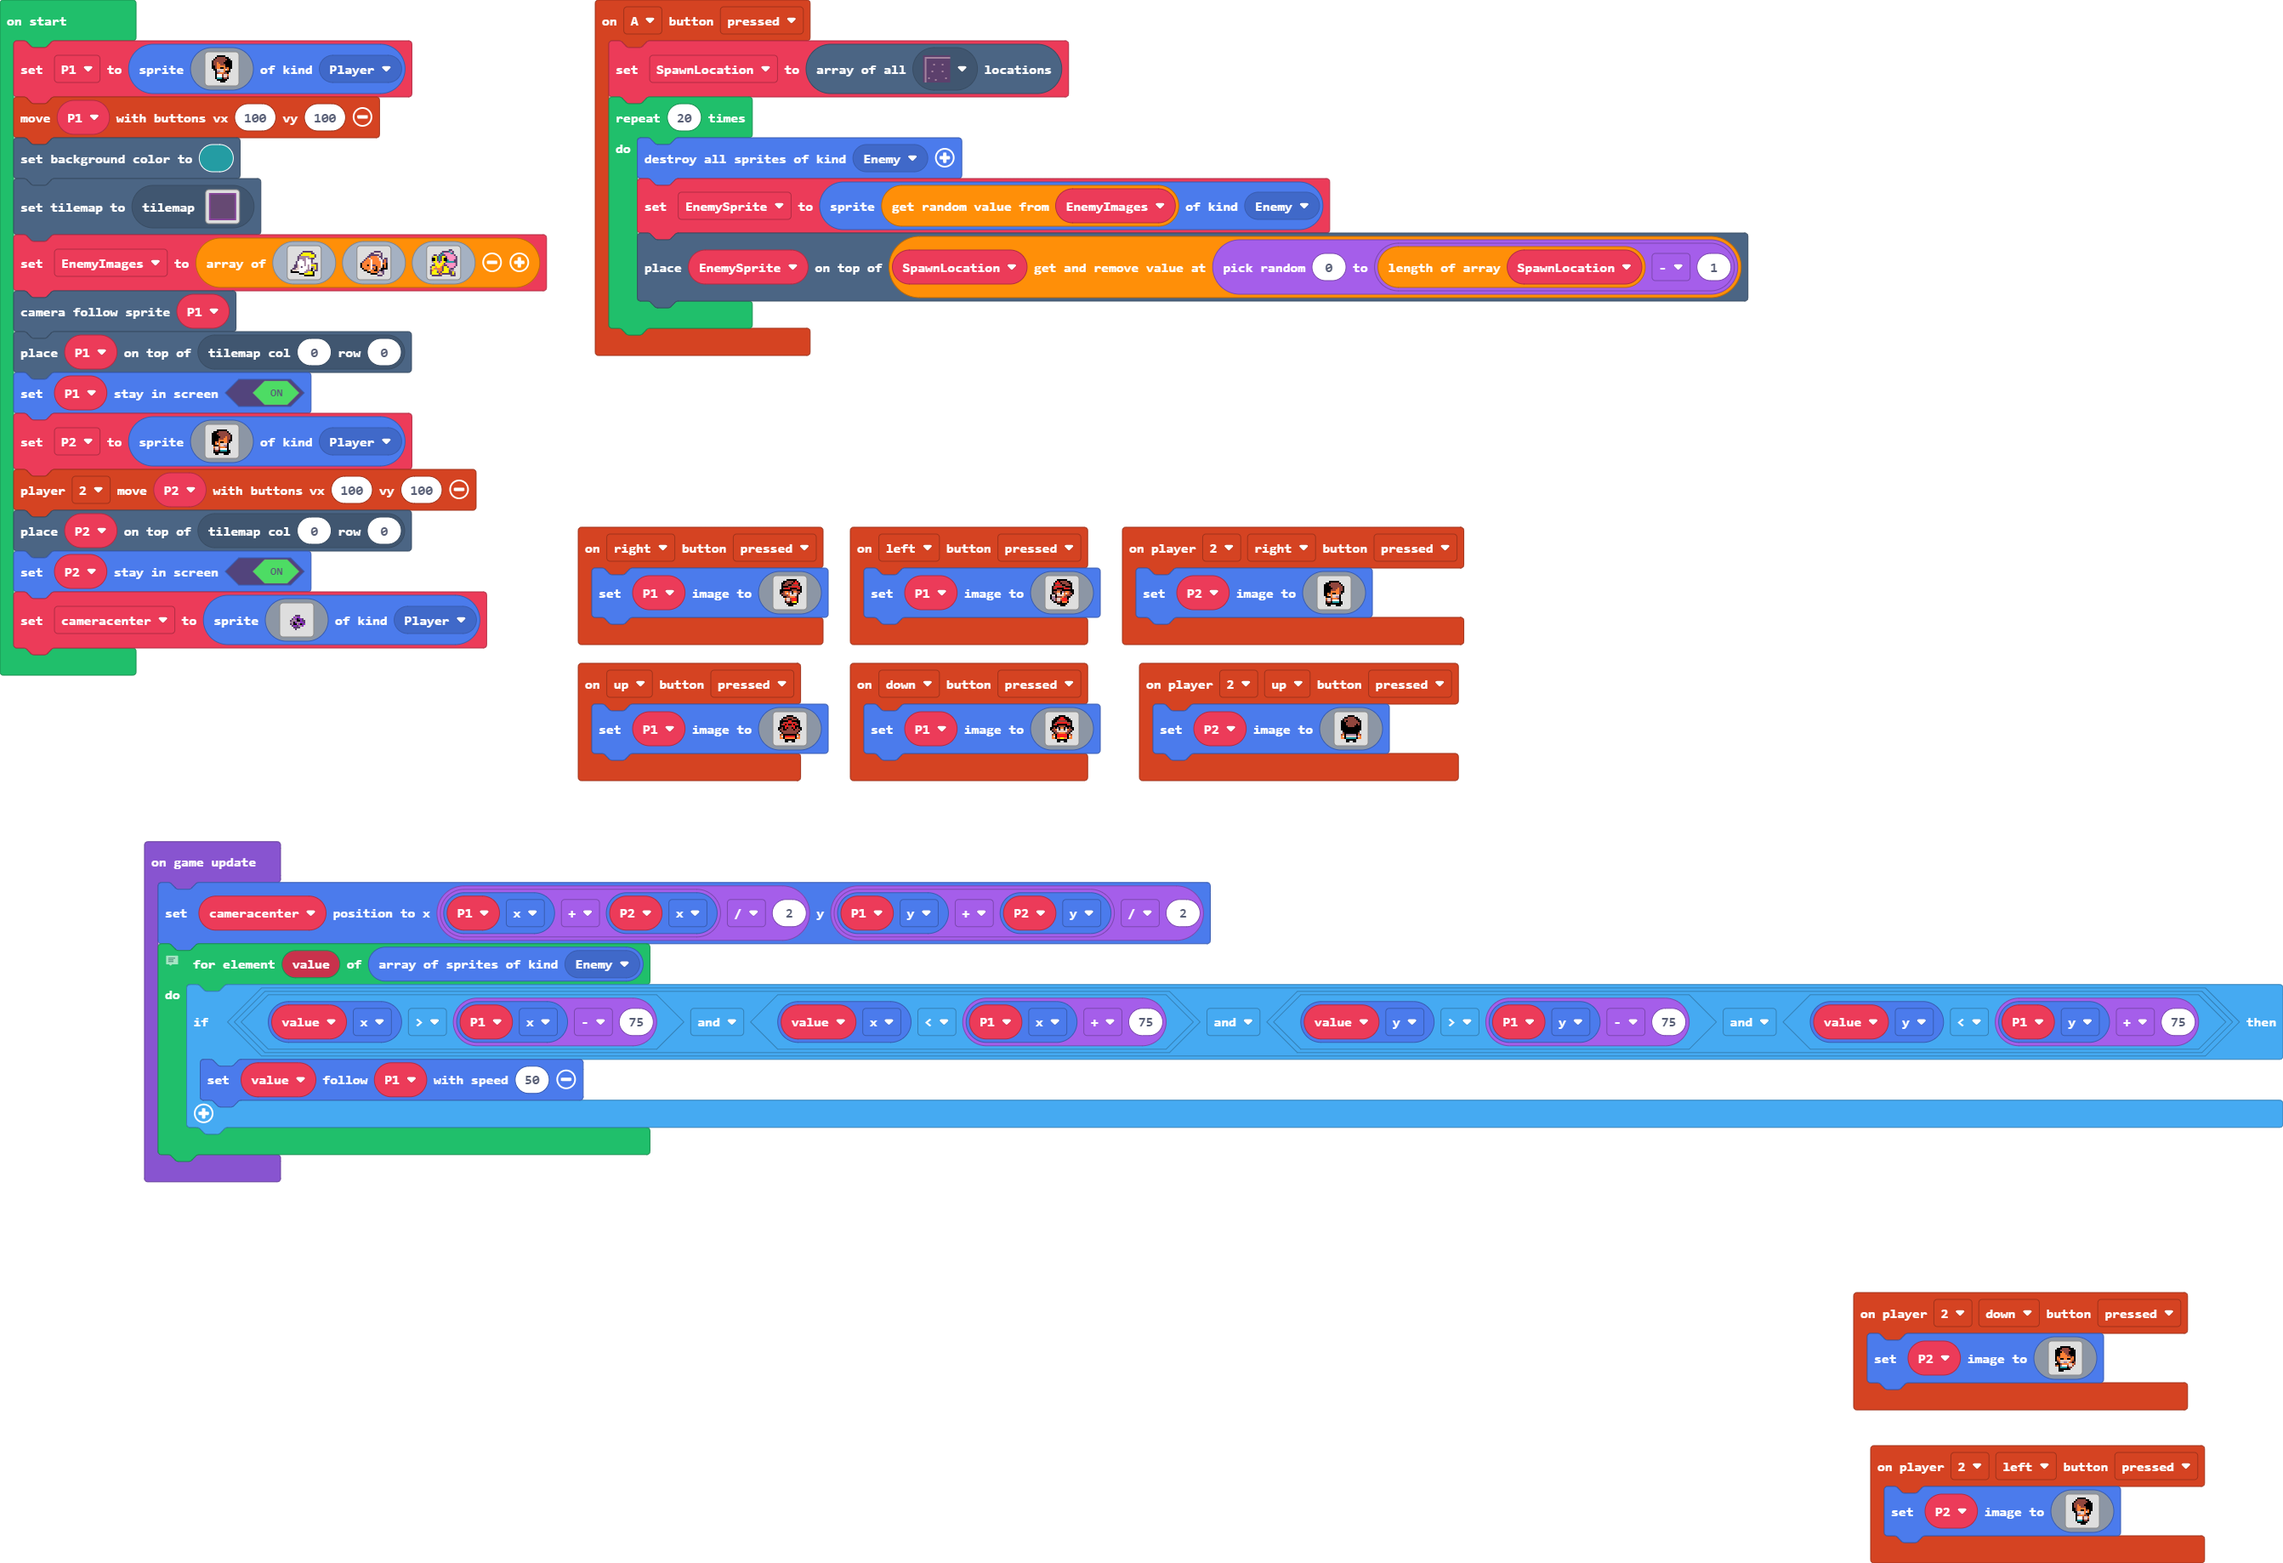
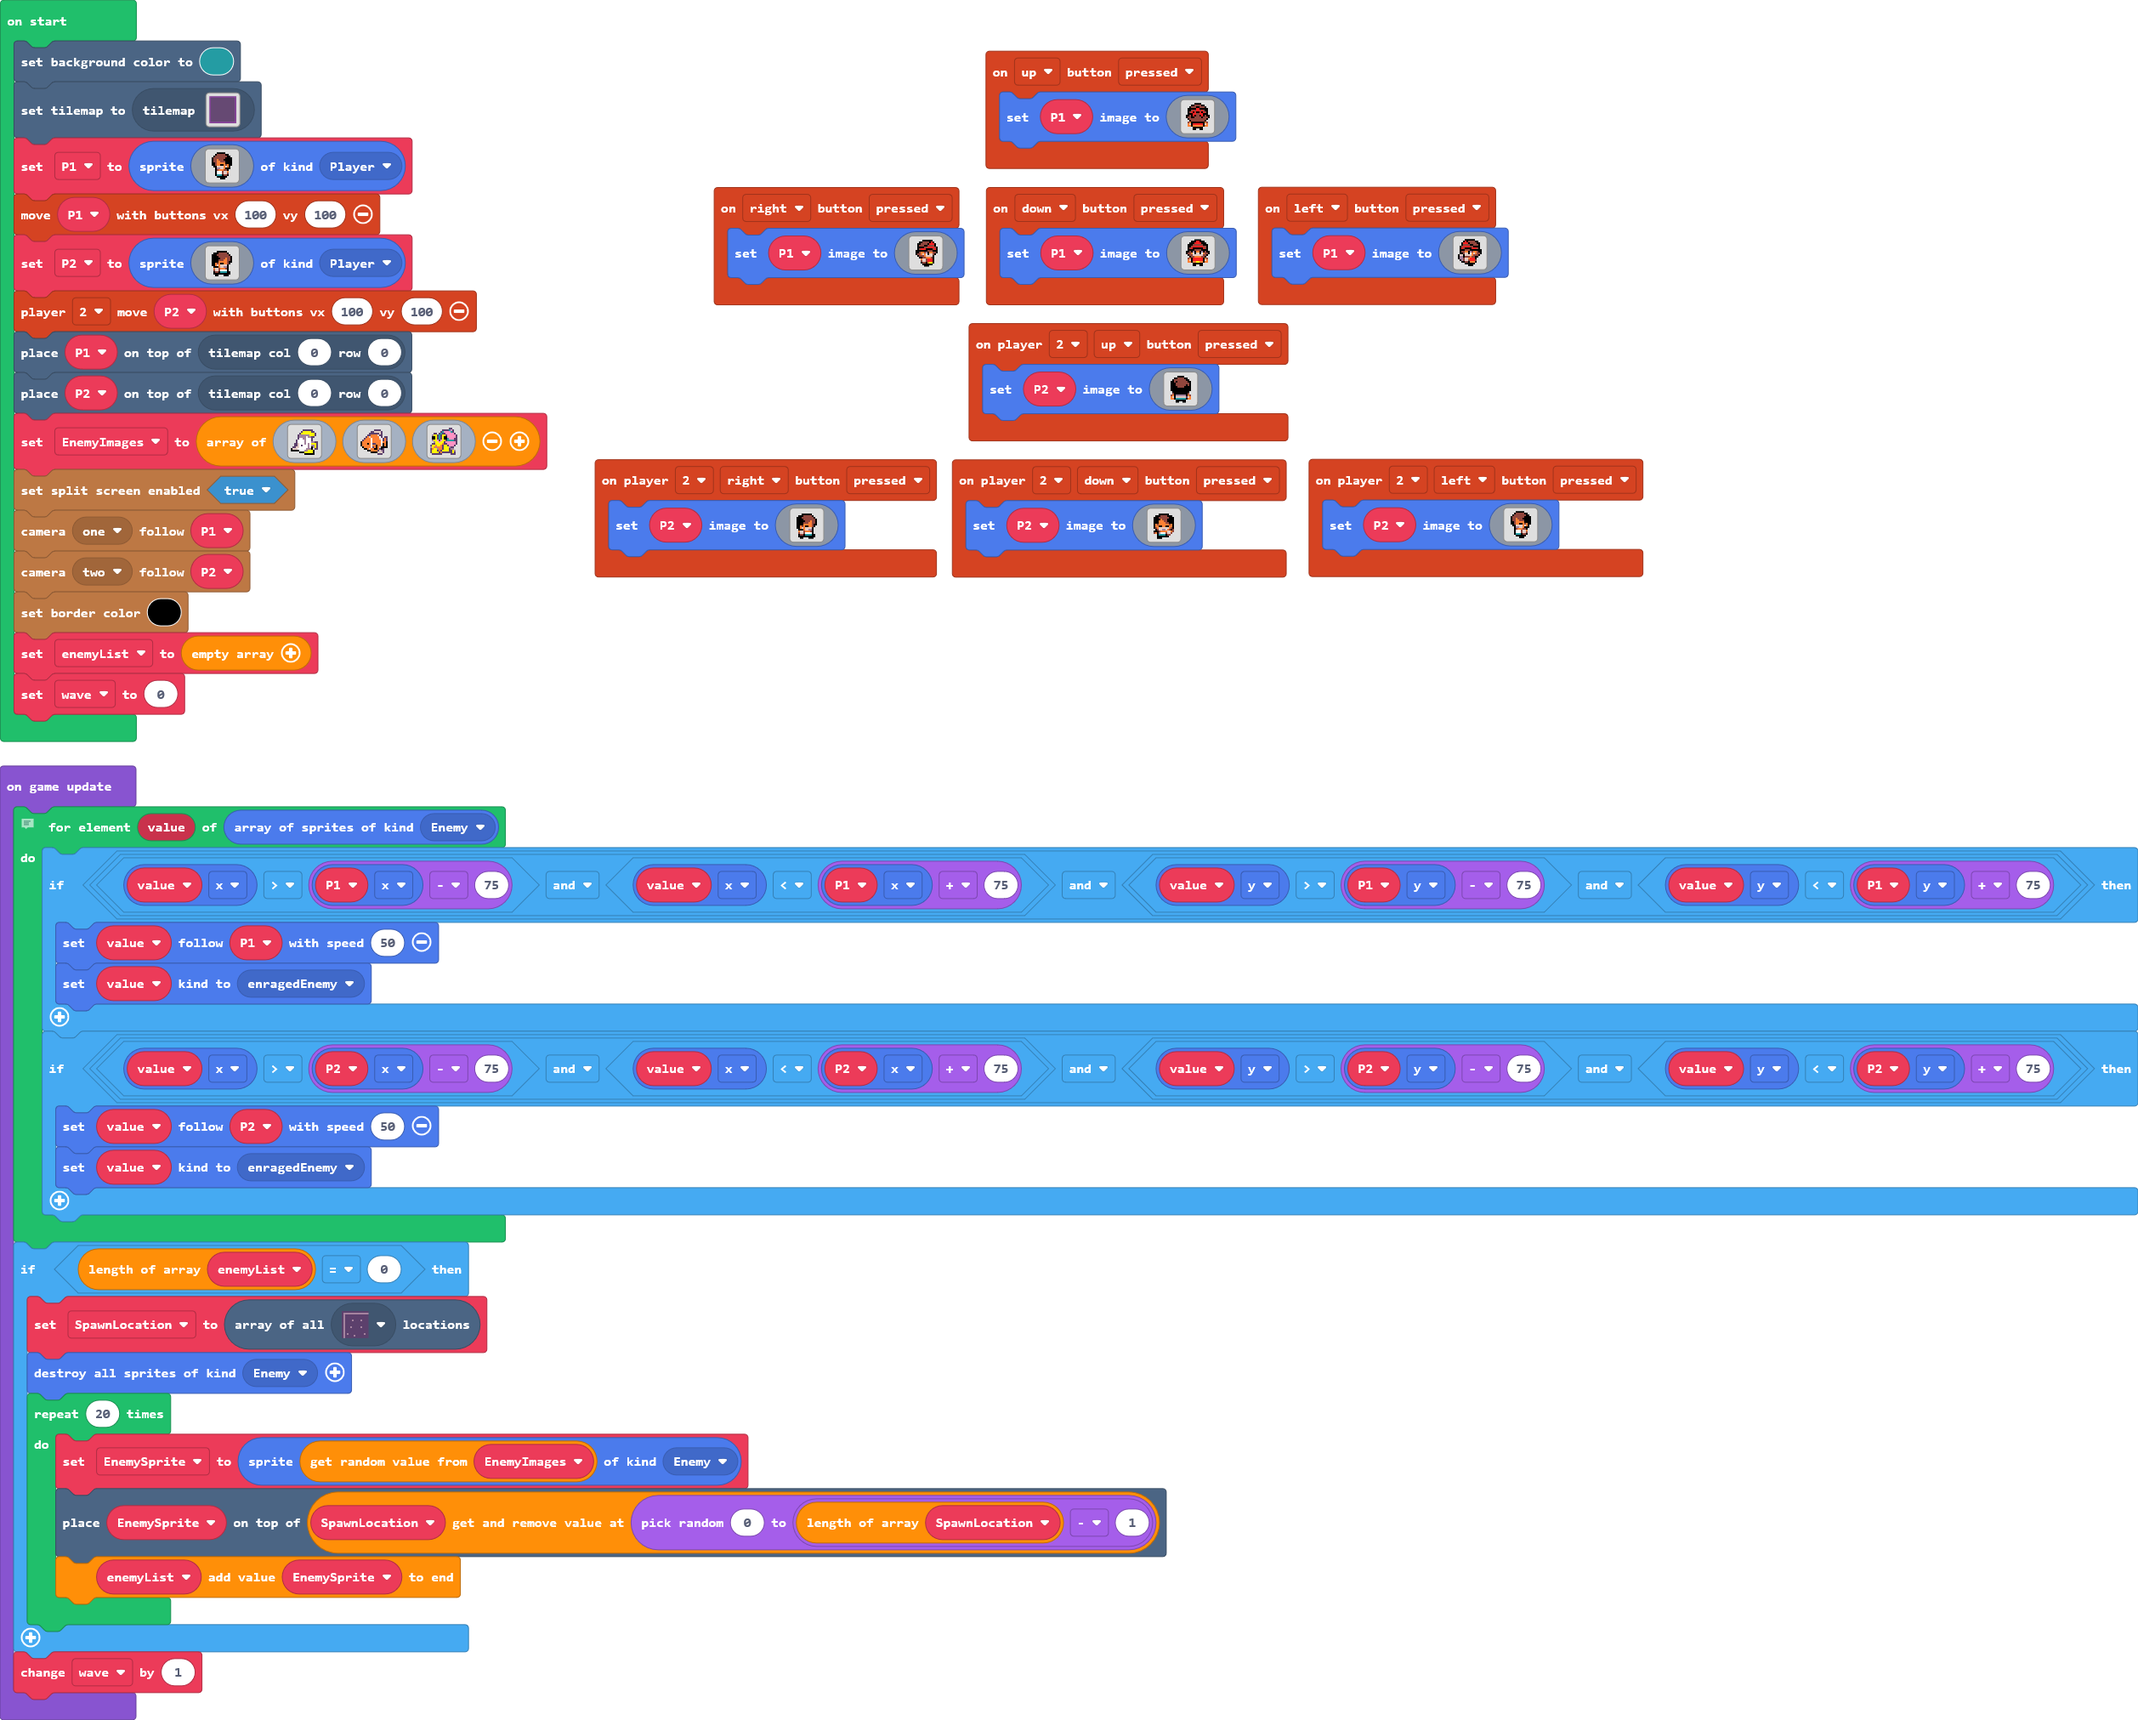
Added split screen, enemy follow player sprite, and enemy waves (REUPLOAD)

diff --git a/main.ts b/main.ts
@@ -1,3 +1,6 @@
+namespace SpriteKind {
+    export const enragedEnemy = SpriteKind.create()
+}
 controller.up.onEvent(ControllerButtonEvent.Pressed, function () {
     P1.setImage(img`
         . . . . . . f f f f . . . . . . 
@@ -17,14 +20,6 @@ controller.up.onEvent(ControllerButtonEvent.Pressed, function () {
         . . . . . f f f f f f . . . . . 
         . . . . . f f . . f f . . . . . 
         `)
-})
-controller.A.onEvent(ControllerButtonEvent.Pressed, function () {
-    SpawnLocation = tiles.getTilesByType(sprites.dungeon.darkGroundNorthWest0)
-    for (let index = 0; index < 20; index++) {
-        sprites.destroyAllSpritesOfKind(SpriteKind.Enemy)
-        EnemySprite = sprites.create(EnemyImages._pickRandom(), SpriteKind.Enemy)
-        tiles.placeOnTile(EnemySprite, SpawnLocation.removeAt(randint(0, SpawnLocation.length - 1)))
-    }
 })
 controller.player2.onButtonEvent(ControllerButton.Down, ControllerButtonEvent.Pressed, function () {
     P2.setImage(img`
@@ -152,16 +147,11 @@ controller.player2.onButtonEvent(ControllerButton.Left, ControllerButtonEvent.Pr
 let EnemySprite: Sprite = null
 let SpawnLocation: tiles.Location[] = []
 let P2: Sprite = null
-let EnemyImages: Image[] = []
 let P1: Sprite = null
-P1 = sprites.create(assets.image`myImage2`, SpriteKind.Player)
-controller.moveSprite(P1, 100, 100)
 scene.setBackgroundColor(6)
 tiles.setCurrentTilemap(tilemap`level1`)
-EnemyImages = [assets.image`myImage`, assets.image`myImage0`, assets.image`myImage1`]
-scene.cameraFollowSprite(P1)
-tiles.placeOnTile(P1, tiles.getTileLocation(0, 0))
-P1.setStayInScreen(true)
+P1 = sprites.create(assets.image`myImage2`, SpriteKind.Player)
+controller.moveSprite(P1, 100, 100)
 P2 = sprites.create(img`
     . . . . . . . . . . . . 
     . . . f f f f f f . . . 
@@ -181,32 +171,35 @@ P2 = sprites.create(img`
     . . f f . . . f f f . . 
     `, SpriteKind.Player)
 controller.player2.moveSprite(P2, 100, 100)
+tiles.placeOnTile(P1, tiles.getTileLocation(0, 0))
 tiles.placeOnTile(P2, tiles.getTileLocation(0, 0))
-P2.setStayInScreen(true)
-let cameracenter = sprites.create(img`
-    . . . . . . . . . . . . . . . . 
-    . . . . . . . . . . . . . . . . 
-    . . . . . . . . . . . . . . . . 
-    . . . . . . . . . . . . . . . . 
-    . . . . . . . . . . . . . . . . 
-    . . . . . . . c c c . . . . . . 
-    . . . . . . a b a a . . . . . . 
-    . . . . . c b a f c a c . . . . 
-    . . . . c b b b f f a c c . . . 
-    . . . . b b f a b b a a c . . . 
-    . . . . c b f f b a f c a . . . 
-    . . . . . c a a c b b a . . . . 
-    . . . . . . c c c c . . . . . . 
-    . . . . . . . c . . . . . . . . 
-    . . . . . . . . . . . . . . . . 
-    . . . . . . . . . . . . . . . . 
-    `, SpriteKind.Player)
+let EnemyImages = [assets.image`myImage`, assets.image`myImage0`, assets.image`myImage1`]
+splitScreen.setSplitScreenEnabled(true)
+splitScreen.cameraFollowSprite(splitScreen.Camera.Camera1, P1)
+splitScreen.cameraFollowSprite(splitScreen.Camera.Camera2, P2)
+splitScreen.setBorderColor(15)
+let enemyList: Sprite[] = []
+let wave = 0
 game.onUpdate(function () {
-    cameracenter.setPosition((P1.x + P2.x) / 2, (P1.y + P2.y) / 2)
     // Makes enemy follow player after player enters its 75 pixel radius
     for (let value of sprites.allOfKind(SpriteKind.Enemy)) {
         if (value.x > P1.x - 75 && value.x < P1.x + 75 && (value.y > P1.y - 75 && value.y < P1.y + 75)) {
             value.follow(P1, 50)
+            value.setKind(SpriteKind.enragedEnemy)
+        }
+        if (value.x > P2.x - 75 && value.x < P2.x + 75 && (value.y > P2.y - 75 && value.y < P2.y + 75)) {
+            value.follow(P2, 50)
+            value.setKind(SpriteKind.enragedEnemy)
         }
     }
+    if (enemyList.length == 0) {
+        SpawnLocation = tiles.getTilesByType(sprites.dungeon.darkGroundNorthWest0)
+        sprites.destroyAllSpritesOfKind(SpriteKind.Enemy)
+        for (let index = 0; index < 20; index++) {
+            EnemySprite = sprites.create(EnemyImages._pickRandom(), SpriteKind.Enemy)
+            tiles.placeOnTile(EnemySprite, SpawnLocation.removeAt(randint(0, SpawnLocation.length - 1)))
+            enemyList.push(EnemySprite)
+        }
+    }
+    wave += 1
 })
